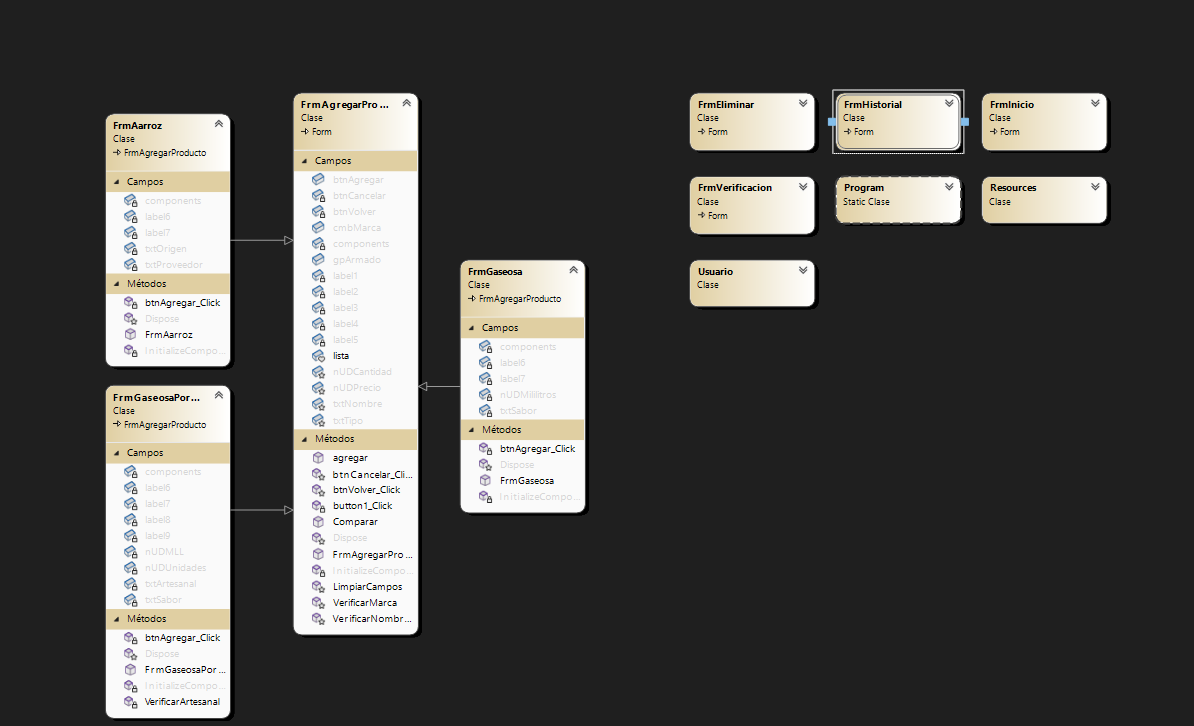
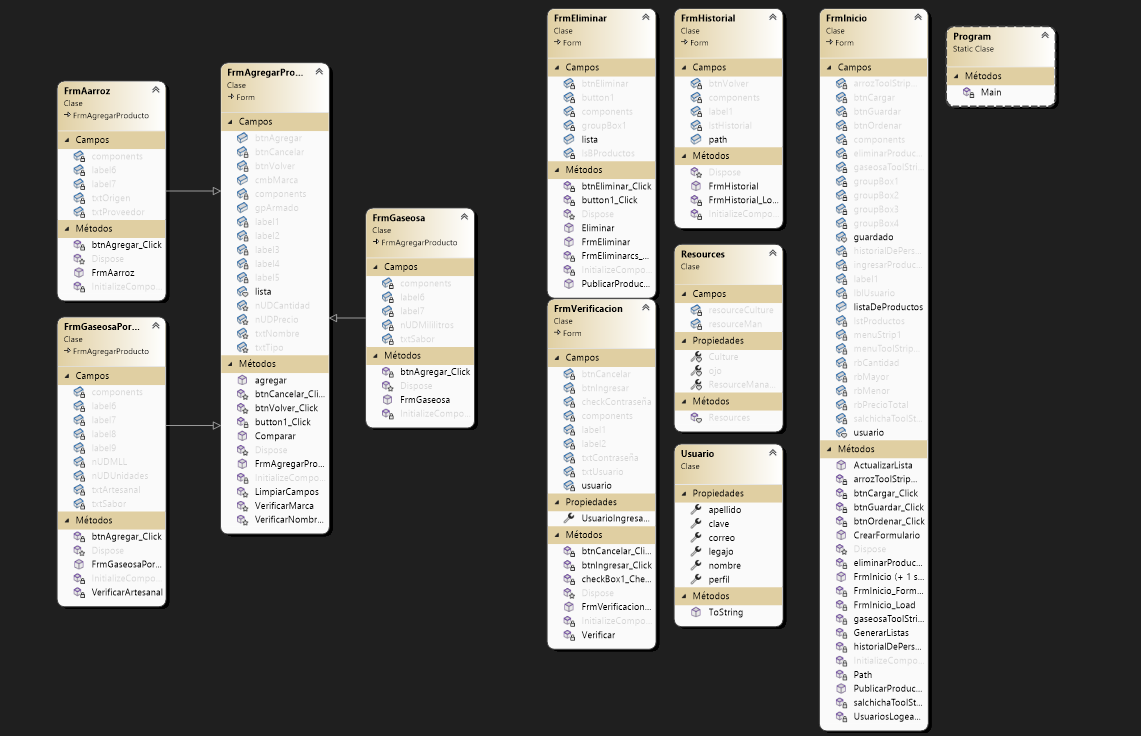
Ultimas correciones en diagramas y iniciador de lista generica

diff --git a/Login/FrmInicio.cs b/Login/FrmInicio.cs
@@ -45,6 +45,8 @@ namespace Aplicacion
         
         private void FrmInicio_Load(object sender, EventArgs e)
         {
+            GenerarListas();
+
             DateTime fechaActual = DateTime.Now;
             this.lblUsuario.Text = $"{this.usuario.ToString()} {fechaActual.Day}/{fechaActual.Month}/{fechaActual.Year}";
 
@@ -318,6 +320,38 @@ namespace Aplicacion
                 }
 
             }
+        }
+
+        private void GenerarListas()
+        {
+            Arroz arroz1 = new Arroz("Arroz blanco", "Arroz", (EMarca)Enum.Parse(typeof(EMarca), "Gallo"), 3, 500f, "Argentina", "Pablo");
+            Arroz arroz2 = new Arroz("Arroz Integral", "Arroz", (EMarca)Enum.Parse(typeof(EMarca), "Gallo"), 5, 600f, "Argentina", "Chacra Gonzalez");
+            Arroz comboArroz = arroz1 + arroz2;
+
+            Gaseosa gaseosa1 = new Gaseosa("Seven up", "Gaseosa", (EMarca)Enum.Parse(typeof(EMarca), "SevenUp"), 3, 500f, 3f, "Lima");
+            Gaseosa gaseosa2 = new Gaseosa("Pepsi", "Gaseosa", (EMarca)Enum.Parse(typeof(EMarca), "Pepsi"), 3, 500f, 3f, "Cola");
+
+            GaseosaPorMayor gaseosaPorMayor1 = new GaseosaPorMayor("Trini", "Gaseosa Mayorista", (EMarca)Enum.Parse(typeof(EMarca), "Vienissima"), 4, 300f, 500f, "Uva", 1000, "Si");
+            GaseosaPorMayor gaseosaPorMayor2 = new GaseosaPorMayor("Don Antonio", "Gaseosa Mayorista", (EMarca)Enum.Parse(typeof(EMarca), "Swift"), 4, 150f, 500f, "Naranja", 500, "No");
+            GaseosaPorMayor gaseosaPorMayor3 = gaseosaPorMayor1 + gaseosaPorMayor2;
+
+            List<Producto> productos = new List<Producto>();
+
+            productos.Add(arroz1);
+            productos.Add(arroz2);
+            productos.Add(comboArroz);
+            productos.Add(gaseosa1);
+            productos.Add(gaseosa2);
+            productos.Add(gaseosaPorMayor1);
+            productos.Add(gaseosaPorMayor2);
+            productos.Add(gaseosaPorMayor3);
+
+            ListaProductos listaDeProductos = new(productos);
+
+
+            string path = Path();
+
+            Producto.Serializar(listaDeProductos, path);
         }
     }
 }
